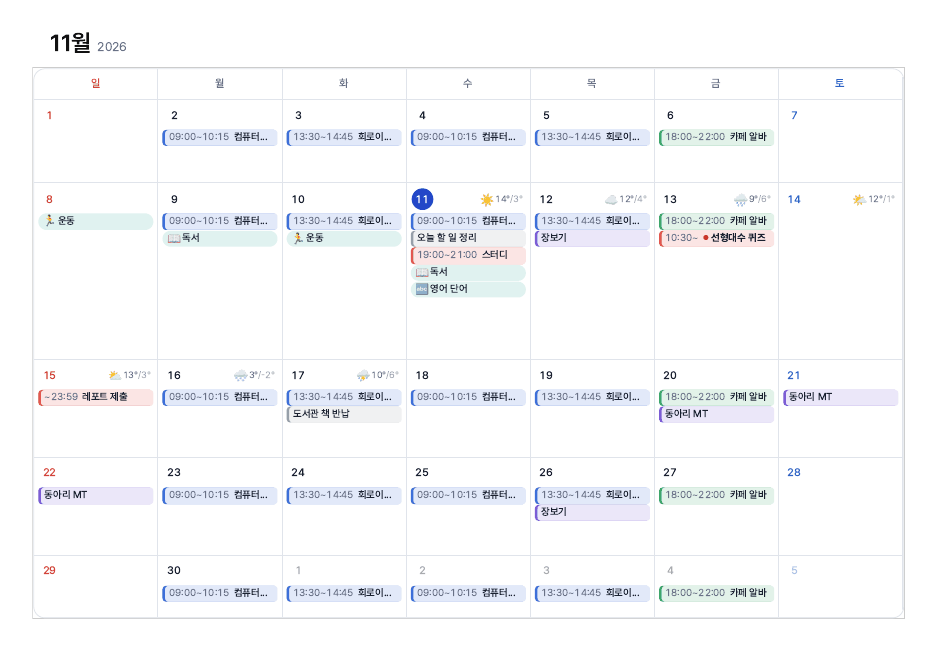
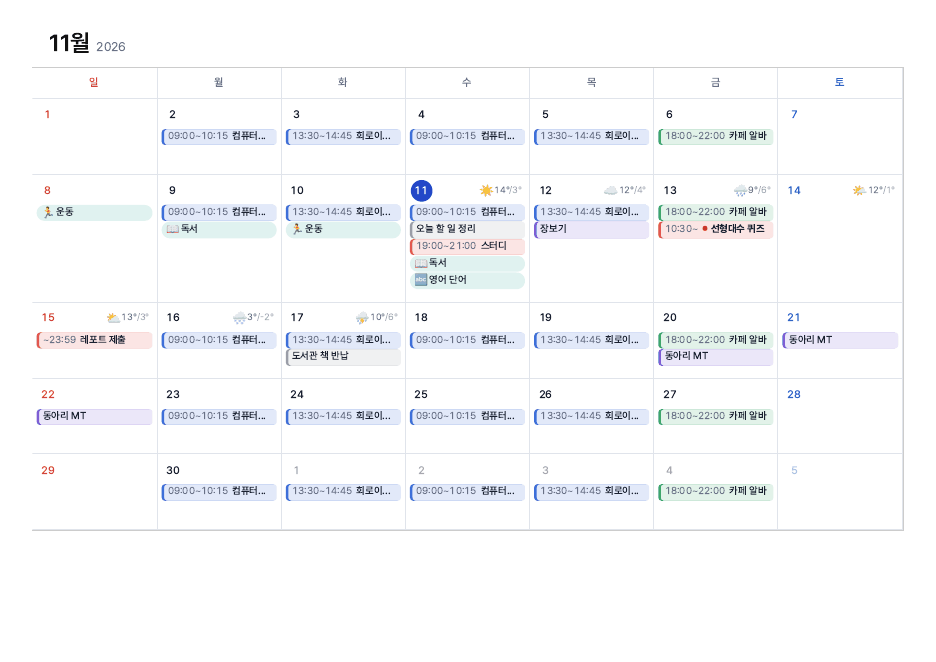
0.10.1: 인쇄할 때 빈 둘째 장이 나오던 문제 수정

diff --git a/static/css/style.css b/static/css/style.css
@@ -1499,24 +1499,31 @@ dialog.quick[open] { animation: sheet-in .16s ease-out; }
    ========================================================================== */
 @media print {
   @page { size: A4 landscape; margin: 10mm; }
-  html, body { height: auto; background: #fff !important; color: #111 !important; overflow: visible !important; }
+  /* 화면에서는 body가 '창 높이 이상'(min-height: 100dvh)이다. Safari는 인쇄할 때도 이 높이를 브라우저 창 기준으로 계산해서
+     창이 종이보다 길면 빈 둘째 장이 생겼다 → 인쇄할 때는 내용 높이만큼만 */
+  html, body { height: auto !important; min-height: 0 !important; background: #fff !important; color: #111 !important; overflow: visible !important; }
+  body { display: block !important; }
   * { -webkit-print-color-adjust: exact; print-color-adjust: exact; }
   .demo-banner, .top-strip, .notes, .notes-backdrop, .pane, .fab, .toast, dialog, [popover],
   .topbar .actions, #btn-notes, #btn-prev, #btn-next, #btn-today, #btn-stats, #btn-week-layout,
   .month-title .caret, .wx-source { display: none !important; }
   .topbar { padding: 0 0 4mm !important; }
   .month-title .title-btn { padding: 0; margin: 0; }
-  .layout { display: block !important; height: auto !important; padding: 0 !important; }
-  .calendar-wrap { display: block !important; height: 175mm !important; border: 1px solid #ccc; border-radius: 0; box-shadow: none !important; }
-  #calendar { height: 100% !important; }
+  .layout { display: block !important; height: auto !important; min-height: 0 !important; padding: 0 !important; }
+  /* 달력 높이를 mm로 못 박지 않는다: 종이 여백·머리글은 브라우저마다 달라서 조금만 넘쳐도 둘째 장이 생긴다.
+     칸은 최소 높이만 주고(일정이 많으면 그 줄만 커진다), 넘치면 주 단위로 다음 장에 넘어간다. */
+  .calendar-wrap { display: block !important; height: auto !important; min-height: 0 !important; border: 1px solid #ccc; border-radius: 0; box-shadow: none !important; }
+  #calendar, .week { height: auto !important; min-height: 0 !important; border: 0 !important; border-radius: 0 !important; }
+  .fc .fc-daygrid-body tr { height: 24mm; break-inside: avoid; }
   .fc .fc-daygrid-day.is-selected { background: none !important; box-shadow: none !important; }
   .fc .fc-daygrid-event { break-inside: avoid; }
   /* FullCalendar가 화면 너비로 적어 둔 표 너비를 종이 너비에 맞춘다 */
   .fc .fc-scrollgrid, .fc table, .fc .fc-daygrid-body, .fc .fc-scrollgrid-sync-table, .fc .fc-col-header { width: 100% !important; }
   .fc .fc-scroller { overflow: visible !important; }
   /* 주간: 가로 배치는 7칸을 모두 한 장에 (화면에서처럼 옆으로 밀지 않게) */
-  .week, .week[data-layout="row"] { overflow: visible !important; height: 100% !important; }
-  .week-track.row { min-width: 0 !important; width: 100% !important; }
+  .week, .week[data-layout="row"] { overflow: visible !important; }
+  .week-track.row { min-width: 0 !important; width: 100% !important; height: auto !important; min-height: 140mm; }
+  .week-track.col { min-height: 0 !important; }
   .wk-col { min-width: 0 !important; overflow: visible !important; }
 }
 

diff --git a/static/js/main.js b/static/js/main.js
@@ -861,9 +861,18 @@ safely('공유', () => initShare({
   },
   beforePrint: () => calendar.updateSize(),
 }));
-// 인쇄할 때는 칸이 넘쳐도 '+n'으로 접지 않고 다 보여 준다 (브라우저 메뉴의 '프린트'로 해도 같다)
-window.addEventListener('beforeprint', () => { calendar.setOption('dayMaxEvents', false); calendar.updateSize(); });
-window.addEventListener('afterprint', () => { calendar.setOption('dayMaxEvents', true); calendar.updateSize(); });
+// 인쇄할 때는 칸이 넘쳐도 '+n'으로 접지 않고 다 보여 준다 (브라우저 메뉴의 '프린트'로 해도 같다).
+// 높이도 '화면에 꽉 차게'가 아니라 '내용만큼'으로 → 종이 크기·여백이 달라도 빈 장이 생기지 않는다.
+window.addEventListener('beforeprint', () => {
+  calendar.setOption('dayMaxEvents', false);
+  calendar.setOption('height', 'auto');
+  calendar.updateSize();
+});
+window.addEventListener('afterprint', () => {
+  calendar.setOption('dayMaxEvents', true);
+  calendar.setOption('height', '100%');
+  calendar.updateSize();
+});
 
 safely('설정', () => initSettings({
   loginEnabled: document.body.dataset.login === '1',

diff --git a/tests/test_v010.py b/tests/test_v010.py
@@ -46,7 +46,7 @@ def test_index_has_share_menu_markdown_and_version(tmp_path):
     from app import APP_VERSION
 
     html = make_client(tmp_path).get("/").get_data(as_text=True)
-    assert APP_VERSION == "0.10.0" and 'data-version="0.10.0"' in html
+    assert APP_VERSION == "0.10.1" and 'data-version="0.10.1"' in html
     assert 'id="btn-share"' in html and 'id="share-menu"' in html
     # 마크다운 라이브러리는 지문 붙은 주소로 (처음 메모를 볼 때만 불러온다)
     assert re.search(r'data-marked="/static/vendor/marked/marked\.esm\.js\?v=[0-9a-f]{10}"', html)
@@ -76,6 +76,21 @@ def test_font_size_scales_text_but_not_tap_heights():
     assert "font-size: calc(14px * var(--fs))" in css
     # 버튼 높이(height)에는 배율을 쓰지 않는다 → 글씨를 줄여도 누르는 칸은 그대로
     assert not re.search(r"(?<![-\w])height:\s*calc\([^;]*var\(--fs\)", css)
+
+
+def test_print_height_follows_content_not_window():
+    """0.10.1: Safari에서 인쇄하면 빈 둘째 장이 나오던 문제.
+    화면용 'body는 창 높이 이상'(min-height: 100dvh)이 인쇄에도 남아 있었고, 달력 높이를 mm로 못 박아 두었다."""
+    with open(os.path.join(ROOT, "static", "css", "style.css"), encoding="utf-8") as f:
+        css = f.read()
+    start = css.index("@media print {")
+    block = css[start:css.index("\n}\n", start)]
+    assert "min-height: 0 !important" in block and "display: block !important" in block
+    assert "175mm" not in block                              # 높이를 못 박지 않는다
+    assert "break-inside: avoid" in block                    # 넘치면 주 단위로 다음 장에
+    with open(os.path.join(ROOT, "static", "js", "main.js"), encoding="utf-8") as f:
+        js = f.read()
+    assert "calendar.setOption('height', 'auto')" in js and "calendar.setOption('height', '100%')" in js
 
 
 def test_weather_uses_seoul_and_open_meteo():

diff --git a/README.md b/README.md
@@ -1,6 +1,6 @@
 # 오직 나를 위한 캘린더
 
-> 버전 **0.10.0** · [업데이트 기록](#9-업데이트-기록) · MIT 라이선스
+> 버전 **0.10.1** · [업데이트 기록](#9-업데이트-기록) · MIT 라이선스
 
 시간이 정해진 일정, 시간 없는 할 일, 날짜를 아직 못 정한 일, 그때그때 드는 생각과 목표까지 한곳에서 관리하는 웹 캘린더다.
 Python(Flask) 서버와 브라우저 화면으로 동작한다. 인터넷 서버에 올려 두면 맥·아이패드·아이폰 어디서든 같은 일정을 보고 고칠 수 있고,
@@ -148,6 +148,7 @@ Python(Flask) 서버와 브라우저 화면으로 동작한다. 인터넷 서버
   - 공유 창이 없는 브라우저(윈도우의 일부 브라우저 등)에서는 글을 **복사**해 두고 알려 준다.
   - 루틴 기록은 개인 기록이라 넣지 않고, 일정만 보낸다.
 - **`인쇄 / PDF로 저장`**: 지금 보이는 달력(월간·주간)만 가로 A4 한 장으로 인쇄한다. 버튼·기록지·오른쪽 칸은 빠지고, 칸이 넘쳐도 `+n`으로 접지 않고 다 나온다.
+  달력 높이는 내용만큼이라 종이 여백·머리글이 브라우저마다 달라도 빈 장이 생기지 않는다. 일정이 아주 많은 달은 주 단위로 다음 장에 이어진다(요일 줄도 다시 나온다).
   인쇄 창에서 'PDF로 저장'을 고르면 파일이 된다(맥은 왼쪽 아래 `PDF`, 아이폰은 공유 → 프린트).
 
 ### 주소에 보던 화면 남기기 (0.10.0)
@@ -250,7 +251,7 @@ Python(Flask) 서버와 브라우저 화면으로 동작한다. 인터넷 서버
   - 버튼처럼 누르는 칸의 높이는 줄이지 않아서, 작게 해도 누르기 불편해지지 않는다.
   - 80%보다 작게 하면 휴대폰 월간 칸의 글씨가 9px 아래로 내려가 읽기 어려워서 가장 작은 단계를 80%로 정했다.
 - **이 기기에서 로그아웃**: 비밀번호를 정해 둔 경우에만 보인다.
-- 맨 아래에 앱 이름과 **버전**(`버전 0.10.0`)이 보인다. 서버에 새 버전을 올린 뒤 이 숫자로 제대로 바뀌었는지 확인할 수 있다.
+- 맨 아래에 앱 이름과 **버전**(`버전 0.10.1`)이 보인다. 서버에 새 버전을 올린 뒤 이 숫자로 제대로 바뀌었는지 확인할 수 있다.
 
 ### 로그인과 기기 간 동기화
 - **비밀번호 하나**로 잠근다. 한 번 로그인하면 그 기기에서는 1년 동안 유지된다.
@@ -734,7 +735,7 @@ python -m pytest
 카테고리 보호 규칙, 일정 추가·수정·삭제, 시작·끝 시간 규칙, 여러 날짜 일정의 "이 날만 / 모든 날짜" 처리, 하루 안의 순서 바꾸기, 공휴일, 예전 데이터 파일 자동 변환, 로그인(잠금·쿠키·비밀번호 해시), 변경 번호, 시연용 데이터, 앱 이름·버전·설정 메뉴·글꼴 파일, 입력값 검사,
 빠른 입력 해석 규칙(날짜·시간 30여 가지, **반복 일정**·**메모/목표/할 일 기호**·목표 기한 20여 가지), 루틴 이모지 검사·루틴 기록·마지막 날짜, 기록지(메인·배너, **할 일 체크·완료 비우기·날짜 정하면 일정**, **목표 순서·이룸·D-day 띠**, 한 번에 받기),
 D-day, 옮기기·복사, 시간 돌아보기 계산, 6차·7차·0.8 데이터 파일 이어 쓰기, 속도 장치(지문 주소·저장 기간·압축·묶어 받기),
-보던 화면 주소로 로그인 뒤 돌아가기(다른 사이트로 보내는 주소는 막기), 새로 넣은 오픈소스 파일과 라이선스, 글자 크기 배율이 누르는 칸 높이에는 쓰이지 않는지 등 110가지를 확인한다.
+보던 화면 주소로 로그인 뒤 돌아가기(다른 사이트로 보내는 주소는 막기), 새로 넣은 오픈소스 파일과 라이선스, 글자 크기 배율이 누르는 칸 높이에는 쓰이지 않는지, 인쇄 높이가 창 크기를 따르지 않는지 등 111가지를 확인한다.
 
 ## 8. 앞으로 해 볼 것
 
@@ -756,6 +757,12 @@ D-day, 옮기기·복사, 시간 돌아보기 계산, 6차·7차·0.8 데이터 
 - 과제로 제출하는 완성본이 `1.0.0`이다. 처음 1~8차 업데이트는 `0.1.0`~`0.8.0`으로 바꿔 적었다.
 - 지금 버전은 `app.py`의 `APP_VERSION`에 있고, 화면에서는 ⚙ 설정 메뉴 맨 아래에 보인다.
 - GitHub에는 버전마다 태그(`v0.9.0`)를 붙이고 [Releases](../../releases)에 바뀐 점을 적어 둔다.
+
+### 0.10.1 (2026-11-11) — 인쇄 빈 장 고침
+- Safari에서 인쇄하면 의미 없는 둘째 장이 나오던 문제를 고쳤다.
+  - 원인: 화면용 설정(body는 '창 높이 이상')이 인쇄에도 남아 있었다. Safari는 인쇄할 때도 이 높이를 브라우저 창 기준으로 계산해서, 창이 종이보다 길면 남는 높이가 둘째 장으로 넘어갔다. 달력 높이도 175mm로 못 박혀 있어 여백이 조금만 달라도 넘칠 수 있었다.
+  - 고친 점: 인쇄할 때는 창 높이를 쓰지 않고, 달력 높이도 내용만큼(칸마다 최소 높이만)으로 바꿨다. 일정이 많아 넘치면 주 단위로 다음 장에 이어진다.
+- 테스트 110개 → 111개
 
 ### 0.10.0 (2026-11-11) — 날씨, 메모 마크다운, 글자 크기, 공유·인쇄
 - **날씨**: 오늘부터 일주일 칸에 서울 날씨(아이콘·최고/최저, 하루 화면에는 비 올 확률). 오픈소스 날씨 서비스 Open-Meteo
